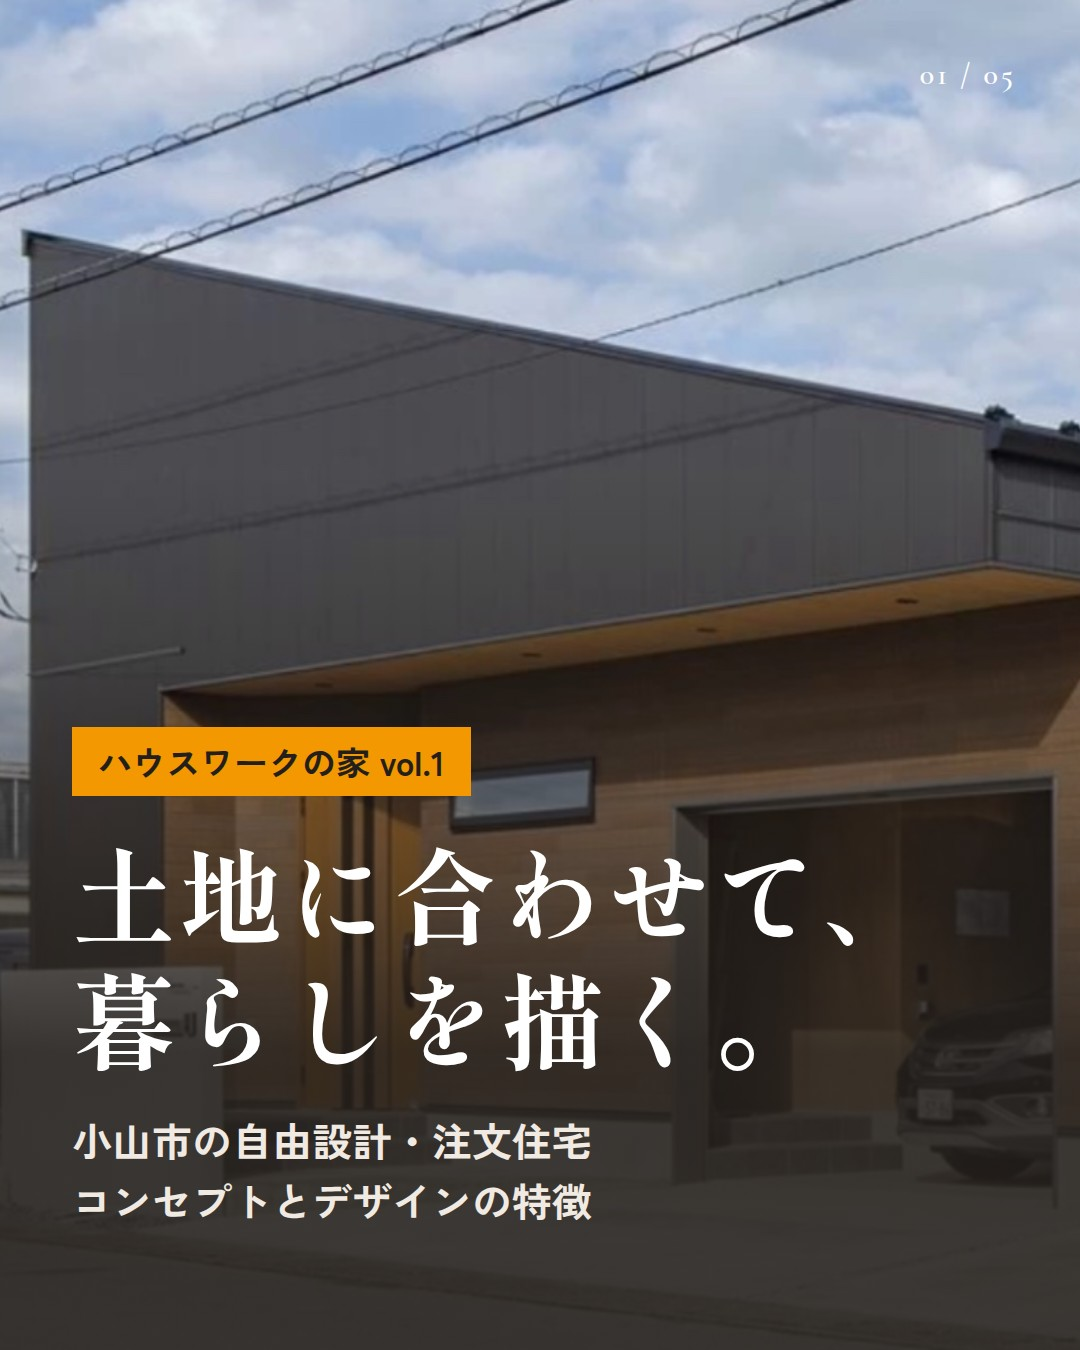
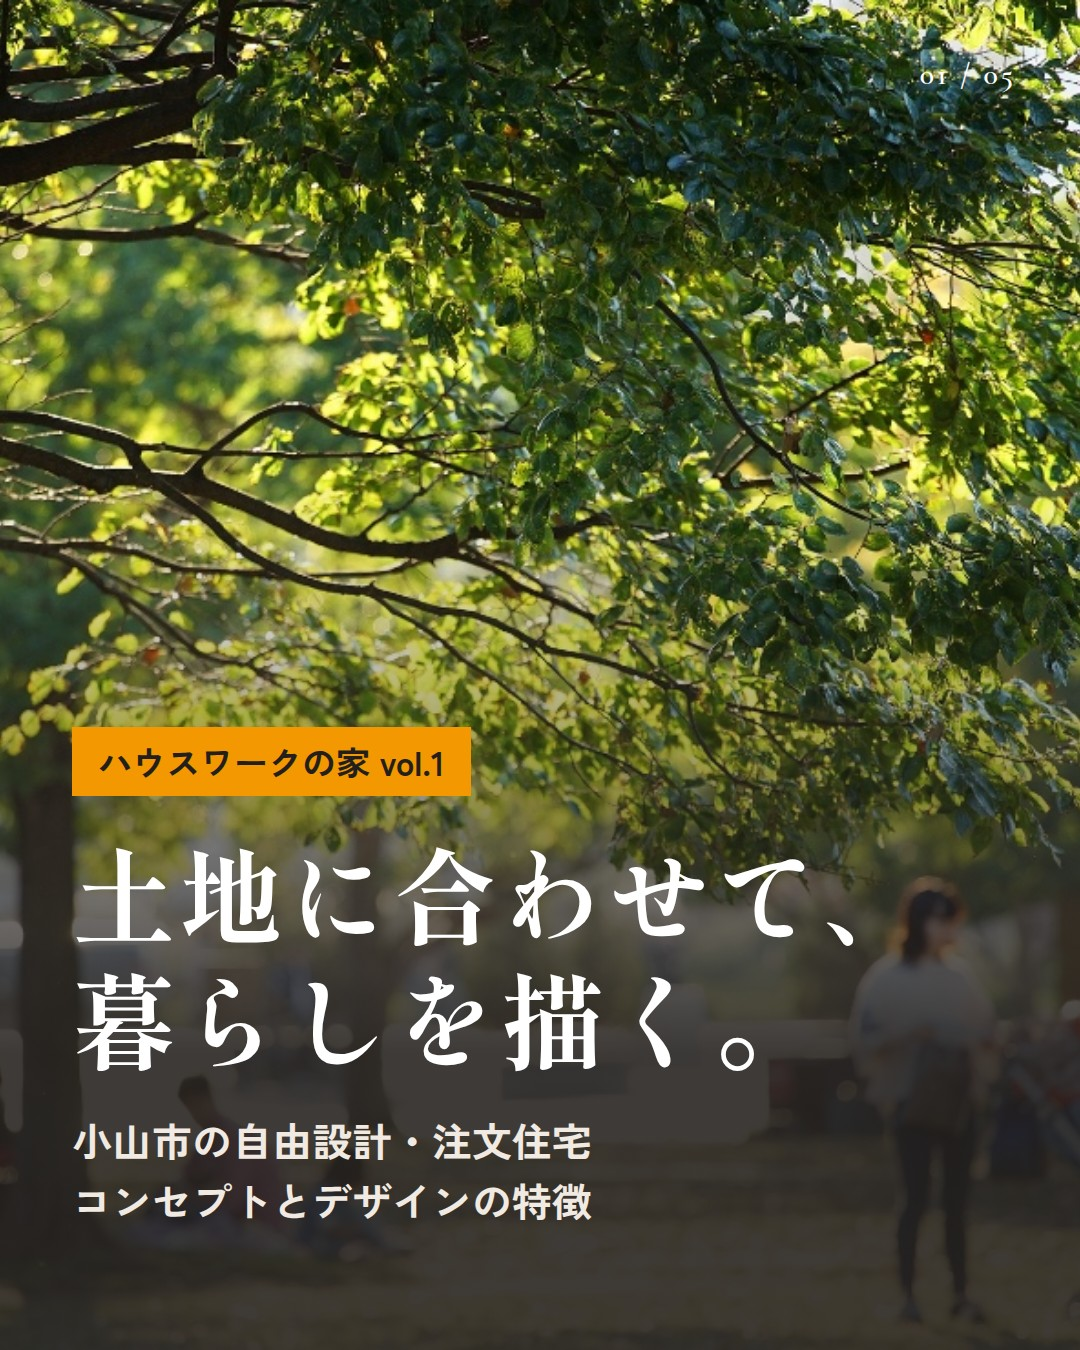
Use park photo as Instagram vol.1 cover
Claude-Session: https://claude.ai/code/session_012B9C5ZEN3wmcNpkXGGwKaW

diff --git a/instagram/posts.html b/instagram/posts.html
@@ -114,7 +114,7 @@
 
 <!-- ================= 投稿1：ハウスワークの家 vol.1 ================= -->
 <section class="slide cover" id="p1-1">
-  <div class="photo"></div><div class="shade"></div>
+  <div class="photo" style="background-image:url(photos/park.jpg); background-size: cover; background-position: 62% center"></div><div class="shade"></div>
   <div class="no en">01 / 05</div>
   <div class="text">
     <span class="tag">ハウスワークの家 vol.1</span>
